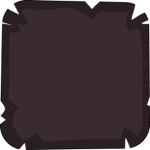
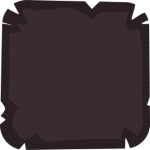
Novas caixinhas de dia (sq1, sq2, sq2-dark)

diff --git a/sw.js b/sw.js
@@ -1,5 +1,5 @@
 // Rede primeiro (pega atualizações), cache como reserva para funcionar offline.
-const CACHE = 'ciclo-v13';
+const CACHE = 'ciclo-v14';
 const ASSETS = [
   './', 'index.html', 'manifest.json', 'icon-192.png', 'icon-512.png', 'icon-maskable-512.png', 'apple-touch-icon.png',
   'assets/bg.jpg', 'assets/backdrop-mes.png', 'assets/bar.png', 'assets/bar-rose.png', 'assets/tab-calendario.png', 'assets/tab-historico.png', 'assets/tab-backup.png', 'assets/big-square.png', 'assets/big-square-dark.png', 'assets/sq2-dark.png', 'assets/sq1.png', 'assets/sq2.png', 'assets/sq3.png',
